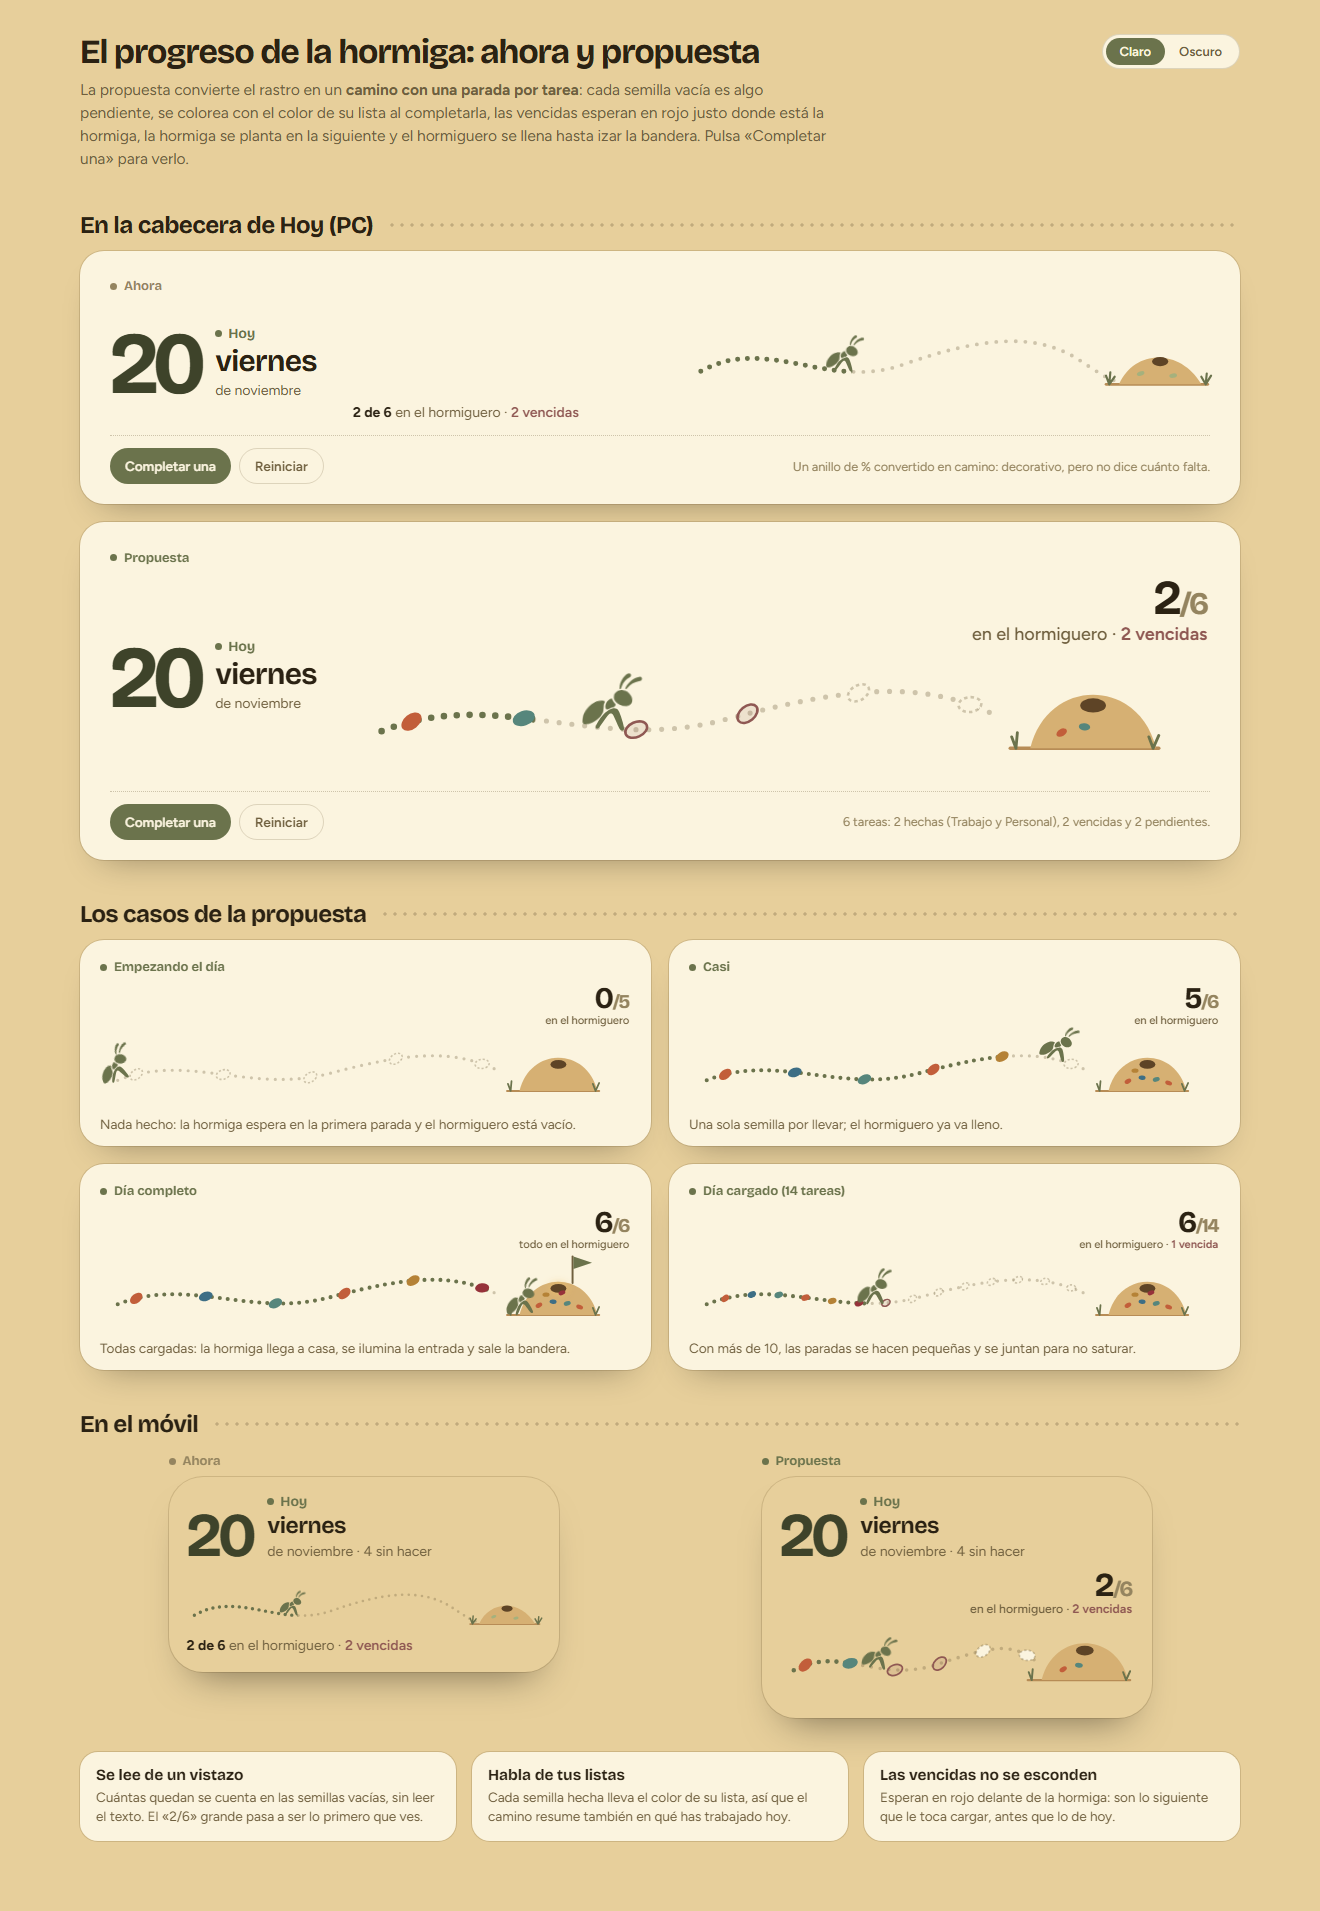
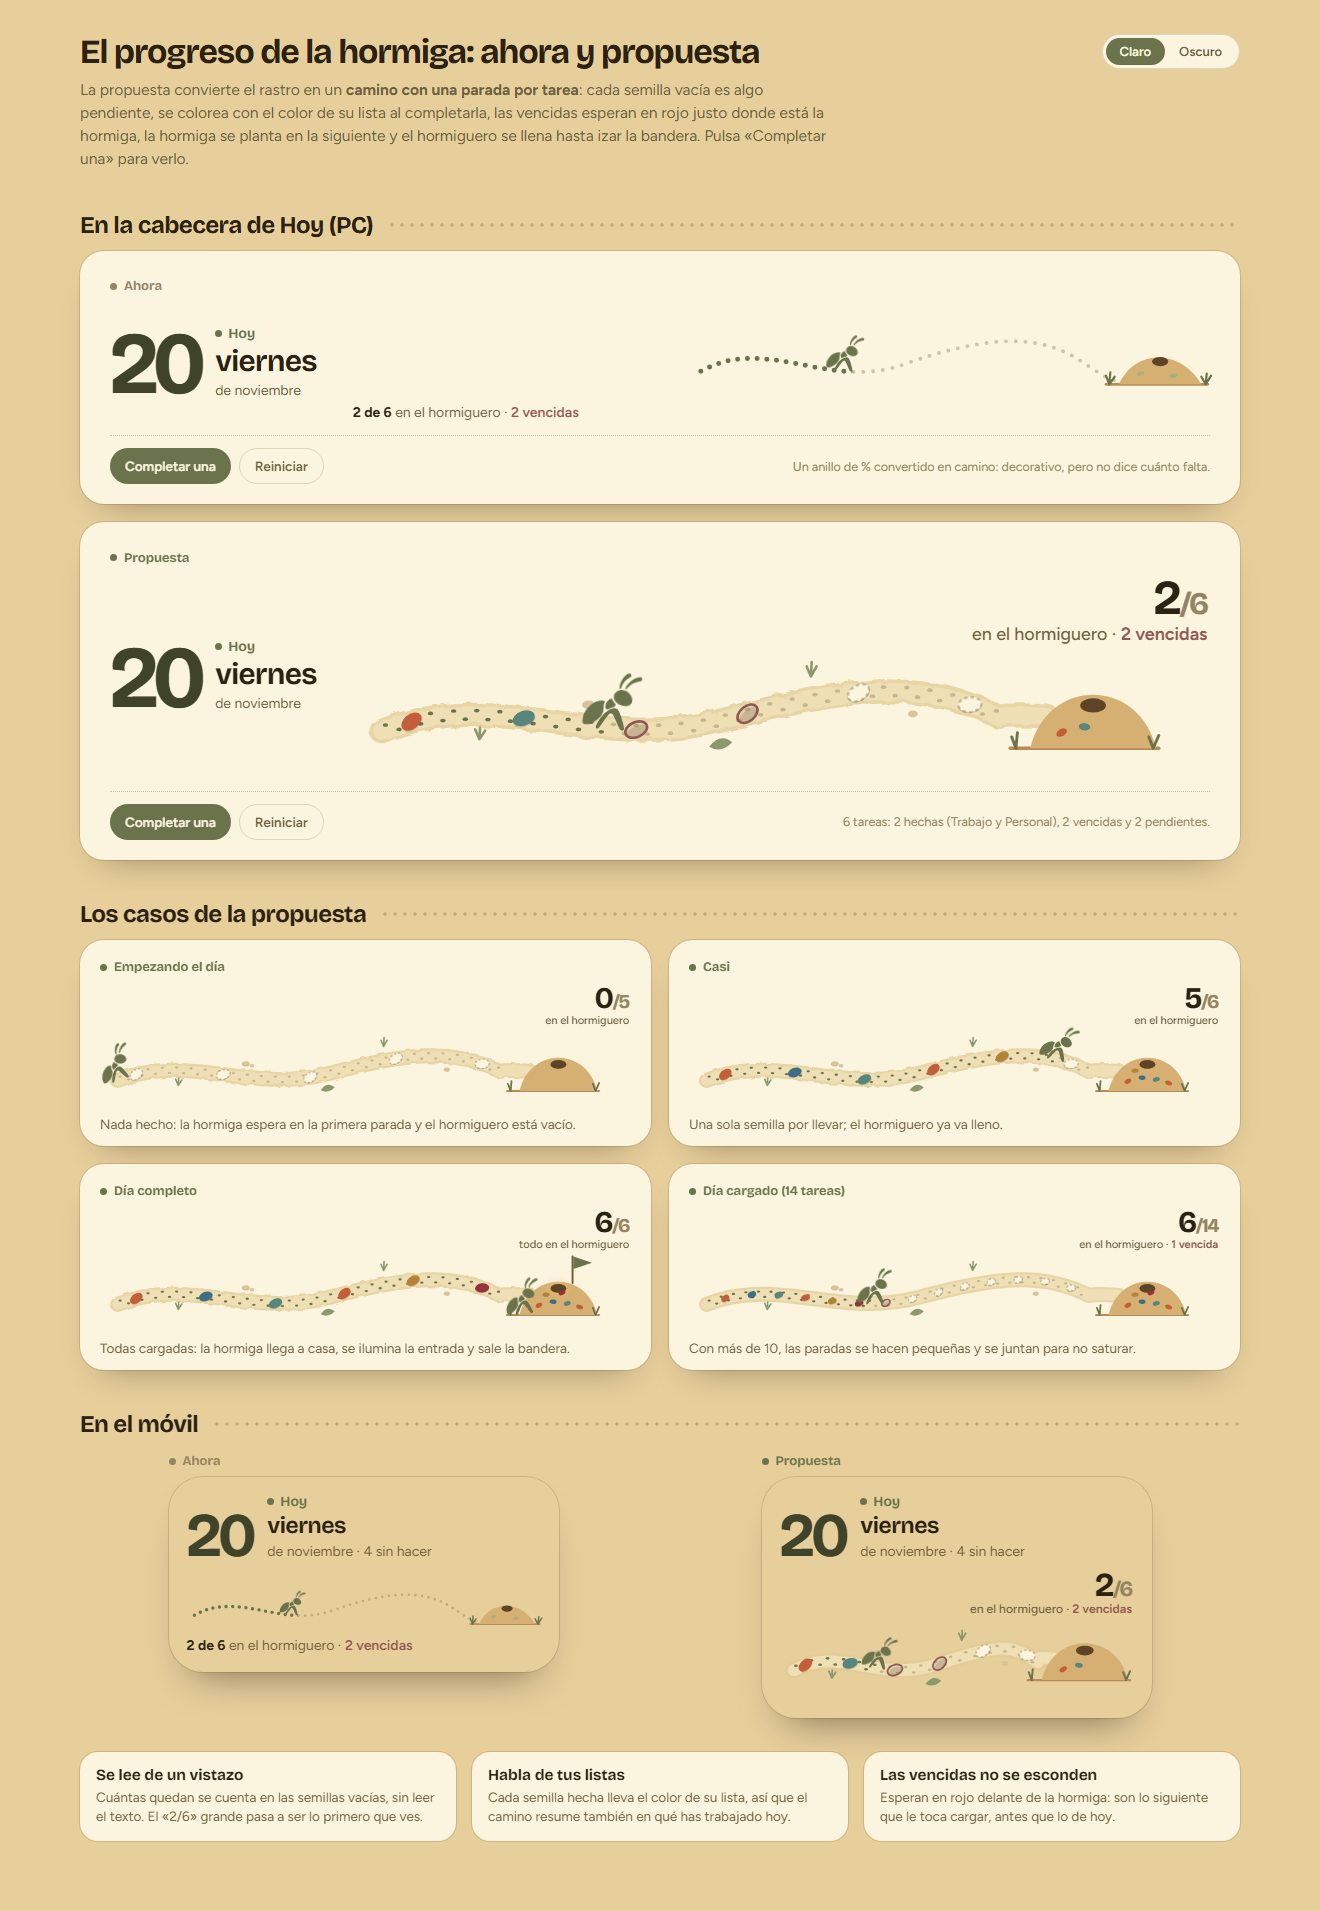
Docs: el progreso como senda de tierra con pisadas y detalles

diff --git a/docs/disenos/hormiga/progreso.html b/docs/disenos/hormiga/progreso.html
@@ -12,7 +12,7 @@
   --kraft:#e7cf9b;--tinta:#5d4a26;--hoja:#fbf4df;--card:#fffcf1;--t1:#2b2213;--t2:#6f5f3e;--t3:#94845f;
   --o300:#a5b17d;--o400:#8c986d;--o500:#6b734c;--o700:#4b5135;--o800:#3e432a;--sobre:#fbf4df;
   --venc:#8f5853;--venc-rgb:143,88,83;--borde:rgba(80,56,10,.17);--punto:rgba(111,95,62,.32);
-  --tierra-2:#d6b073;--tierra-osc:#5e4426;--suelo:#b78c56;
+  --tierra-2:#d6b073;--tierra-osc:#5e4426;--suelo:#b78c56;--senda:#efdfb5;--senda-borde:#e2cb93;--piedra:#d9c49a;
   --l-trabajo:#c25e3a;--l-casa:#3d6e85;--l-personal:#56867c;--l-lect:#b58236;--l-viajes:#96323a;
   --fd:'Bricolage Grotesque',system-ui,sans-serif;--fs:'Figtree',system-ui,sans-serif;
 }
@@ -20,7 +20,7 @@
   --kraft:#211a15;--tinta:#c4ad86;--hoja:#352b23;--card:#40342b;--t1:#e6d1aa;--t2:#cdb690;--t3:#a08d6c;
   --o300:#c9d59b;--o400:#6f7a48;--o500:#a4b272;--o700:#c4d195;--o800:#d6e0ad;--sobre:#211a15;
   --venc:#d8a99b;--venc-rgb:196,122,106;--borde:rgba(255,226,190,.16);--punto:rgba(255,226,190,.24);
-  --tierra-2:#5a4634;--tierra-osc:#f2c46d;--suelo:#6b5640;
+  --tierra-2:#5a4634;--tierra-osc:#f2c46d;--suelo:#6b5640;--senda:#3f3328;--senda-borde:#4a3c2f;--piedra:#55463a;
   --l-trabajo:#e08a66;--l-casa:#7fb0c7;--l-personal:#7fc0b2;--l-lect:#d9a85e;--l-viajes:#d27d84;
 }
 *{box-sizing:border-box;margin:0;padding:0}
@@ -68,6 +68,14 @@ svg.pg{display:block;width:100%;height:auto;overflow:visible}
 .notas p{font-size:13.5px;color:var(--t2);line-height:1.45}
 
 /* Piezas del SVG */
+.senda-b{fill:none;stroke:var(--senda-borde);opacity:.75;stroke-width:17;stroke-linecap:round;stroke-linejoin:round}
+.senda{fill:none;stroke:var(--senda);stroke-width:12;stroke-linecap:round;stroke-linejoin:round}
+.pisada{fill:var(--punto);transition:fill .25s}
+.pisada.h{fill:var(--o500)}
+.piedra{fill:var(--piedra)}
+.mata{fill:none;stroke:var(--o400);stroke-width:1.8;stroke-linecap:round}
+.hojita{fill:var(--o400)}
+.sombra-p{fill:rgba(0,0,0,.13)}
 .tr-fondo{fill:none;stroke:var(--punto);stroke-width:3.6;stroke-linecap:round;stroke-dasharray:0 9}
 .tr-hecho{fill:none;stroke:var(--o500);stroke-width:4.6;stroke-linecap:round;stroke-dasharray:0 9}
 .suelo{fill:none;stroke:var(--suelo);stroke-width:2.4;stroke-linecap:round}
@@ -183,8 +191,8 @@ function nuevo(el,{tareas,movil,venc}){
   const TR=movil?'M14 86 C 60 60, 100 100, 160 80 S 236 58, 262 78':'M20 92 C 100 60, 170 108, 260 84 S 400 56, 452 82';
   const nx=movil?312:520,ny=movil?96:104;
   const muchas=tareas.length>10, rx=muchas?5:8, ry=muchas?3.4:5.2;
-  el.innerHTML=`<svg class="pg" viewBox="0 0 ${W} ${H}"><defs><mask id="m${uid}" maskUnits="userSpaceOnUse" x="-20" y="-20" width="${W+40}" height="${H+40}"><path class="mk" d="${TR}" fill="none" stroke="#fff" stroke-width="16" stroke-linecap="round"/></mask></defs>
-    <g transform="translate(0 18)"><path d="${TR}" class="tr-fondo"/><path d="${TR}" class="tr-hecho" mask="url(#m${uid++})"/><path class="guia" d="${TR}" fill="none"/>
+  el.innerHTML=`<svg class="pg" viewBox="0 0 ${W} ${H}"><defs><filter id="rug${uid}" x="-5%" y="-30%" width="110%" height="160%"><feTurbulence type="fractalNoise" baseFrequency=".09" numOctaves="2" seed="4"/><feDisplacementMap in="SourceGraphic" scale="4.5"/></filter><mask id="m${uid++}" maskUnits="userSpaceOnUse" x="-20" y="-20" width="${W+40}" height="${H+40}"><path class="mk" d="${TR}" fill="none" stroke="#fff" stroke-width="16" stroke-linecap="round"/></mask></defs>
+    <g transform="translate(0 18)"><g class="deco"></g><g filter="url(#rug${uid})"><path d="${TR} Q ${nx-58} ${ny-24}, ${nx-34} ${ny-22}" class="senda-b"/><path d="${TR} Q ${nx-58} ${ny-24}, ${nx-34} ${ny-22}" class="senda"/></g><g class="pisadas"></g><path class="mk" d="" style="display:none"/><path class="guia" d="${TR}" fill="none"/>
     <g class="paradas"></g>
     <g class="nido"><path class="suelo" d="M${nx-60} ${ny} H ${nx+44}"/>
       <path class="monticulo" d="M${nx-46} ${ny} C ${nx-34} ${ny-50}, ${nx+30} ${ny-50}, ${nx+42} ${ny} Z"/>
@@ -198,8 +206,20 @@ function nuevo(el,{tareas,movil,venc}){
   const g=el.querySelector('.guia'),Lg=g.getTotalLength();
   const posL=i=>Lg*(0.05+0.9*(tareas.length===1?0.5:i/(tareas.length-1)));
   const pt=l=>{const a=g.getPointAtLength(l),b=g.getPointAtLength(Math.min(Lg,l+2)),c=g.getPointAtLength(Math.max(0,l-2));return {x:a.x,y:a.y,ang:Math.atan2(b.y-c.y,b.x-c.x)*180/Math.PI};};
+  const nrm=l=>{const a=g.getPointAtLength(Math.max(0,l-1)),b=g.getPointAtLength(Math.min(Lg,l+1));const dx=b.x-a.x,dy=b.y-a.y,m=Math.hypot(dx,dy)||1;return [-dy/m,dx/m];};
+  const fps=[],gpi=el.querySelector('.pisadas'),paso_=muchas?7:8;
+  for(let l=4,i=0;l<Lg-2;l+=paso_,i++){const a=g.getPointAtLength(l),[nx_,ny_]=nrm(l),sd=i%2?1:-1;const c=document.createElementNS(NS,'ellipse');
+    c.setAttribute('cx',(a.x+nx_*3*sd).toFixed(1));c.setAttribute('cy',(a.y+ny_*3*sd).toFixed(1));c.setAttribute('rx','1.9');c.setAttribute('ry','1.3');c.setAttribute('class','pisada');gpi.appendChild(c);fps.push({l,c});}
+  const dg=el.querySelector('.deco');const deco=(f,off,html)=>{const l=Lg*f,a=g.getPointAtLength(l),[ux,uy]=nrm(l);return html(a.x+ux*off,a.y+uy*off);};
+  dg.innerHTML=[
+    deco(.16,17,(x,y)=>`<path class="mata" d="M${x} ${y} l-3 -7 M${x} ${y} l0.5 -9 M${x} ${y} l4 -6"/>`),
+    deco(.33,-15,(x,y)=>`<ellipse class="piedra" cx="${x}" cy="${y}" rx="4.5" ry="3"/><ellipse class="piedra" cx="${x+7}" cy="${y+2}" rx="2.6" ry="2"/>`),
+    deco(.52,16,(x,y)=>`<path class="hojita" d="M${x} ${y} q 8 -10 16 -3 q -8 8 -16 3 Z"/>`),
+    deco(.7,-16,(x,y)=>`<path class="mata" d="M${x} ${y} l-3 -7 M${x} ${y} l0.5 -10 M${x} ${y} l4 -7"/>`),
+    deco(.86,15,(x,y)=>`<ellipse class="piedra" cx="${x}" cy="${y}" rx="3.4" ry="2.4"/>`)].join('');
   const gp=el.querySelector('.paradas');
   tareas.forEach((t,i)=>{const q=pt(posL(i));const w=document.createElementNS(NS,'g');w.setAttribute('transform',`translate(${q.x.toFixed(1)} ${q.y.toFixed(1)}) rotate(${(q.ang-25).toFixed(1)})`);
+    const sh=document.createElementNS(NS,'ellipse');sh.setAttribute('cy',1.8);sh.setAttribute('rx',rx);sh.setAttribute('ry',ry*.8);sh.setAttribute('class','sombra-p');w.appendChild(sh);
     const e=document.createElementNS(NS,'ellipse');e.setAttribute('rx',rx);e.setAttribute('ry',ry);e.classList.add('parada');w.appendChild(e);gp.appendChild(w);t.el=e;});
   const s={tareas,el,Lg,pAct:0};
   const GR=[[-24,-8],[-8,-12],[8,-10],[22,-6],[-16,-20],[2,-22],[16,-18],[-30,-2],[30,-2],[-4,-32],[10,-30],[-18,-30],[24,-14],[-2,-4]];
@@ -215,7 +235,7 @@ function nuevo(el,{tareas,movil,venc}){
     el.querySelector('.cont-t').innerHTML=done===total?'todo en el hormiguero':v?`en el hormiguero · <tspan class="v">${v} ${v>1?'vencidas':'vencida'}</tspan>`:'en el hormiguero';
   };
   s.destino=()=>{const i=tareas.findIndex(t=>!t.ok);return i<0?Lg+30:posL(i)-(muchas?12:18);};
-  s.colocar=l=>{let q;if(l>Lg){q={x:nx-40,y:ny-2,ang:-8};}else q=pt(Math.max(0,l));
+  s.colocar=l=>{fps.forEach(f=>f.c.classList.toggle('h',f.l<l));let q;if(l>Lg){q={x:nx-40,y:ny-2,ang:-8};}else q=pt(Math.max(0,l));
     el.querySelector('.hor').setAttribute('transform',`translate(${q.x.toFixed(1)} ${q.y.toFixed(1)}) rotate(${q.ang.toFixed(1)})`);s.pAct=l;};
   s.completar=()=>{const i=tareas.findIndex(t=>!t.ok);if(i<0||s.ocupado)return;s.ocupado=true;
     tareas[i].ok=true;s.pintar(true);tareas[i].el.classList.add('pop');

diff --git a/docs/disenos/hormiga/LEEME.md b/docs/disenos/hormiga/LEEME.md
@@ -217,3 +217,4 @@ Comparación, en claro y oscuro, del rastro actual con una propuesta más legibl
 - **con más de 10 tareas**, las paradas se hacen pequeñas.
 
 Incluye los casos: empezando, casi, día completo, 14 tareas, y la versión móvil. «Completar una» anima la propuesta. Capturas: `progreso.png` y `progreso-oscuro.png`. Si se elige, sustituye al rastro en Hoy (móvil y PC).
+- **Camino (actualizado el 26-nov):** la línea de puntos pasa a ser una senda de tierra con bordes irregulares que llega hasta la entrada del hormiguero. Detrás de la hormiga quedan sus pisadas en verde; delante, en gris. A los lados hay matas, piedras y una hoja. Las semillas llevan una pequeña sombra.
